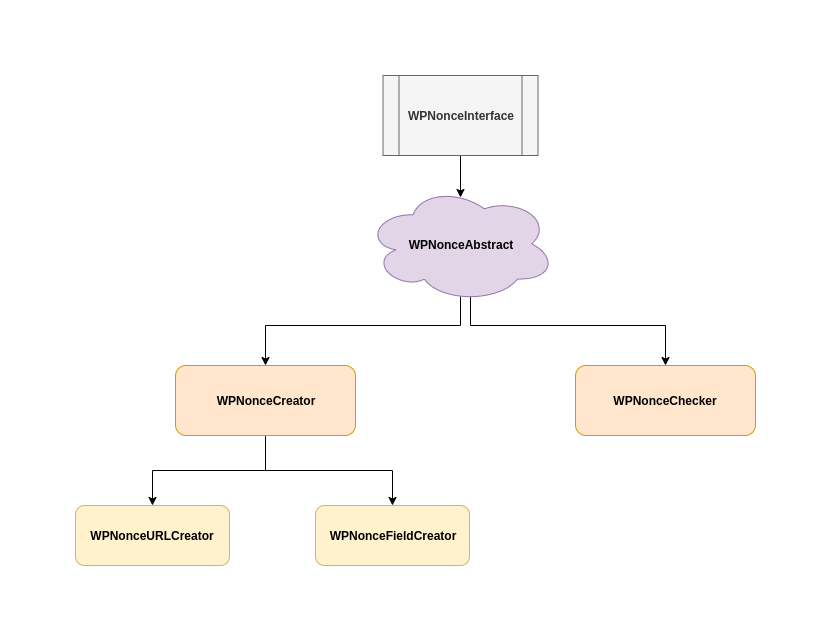
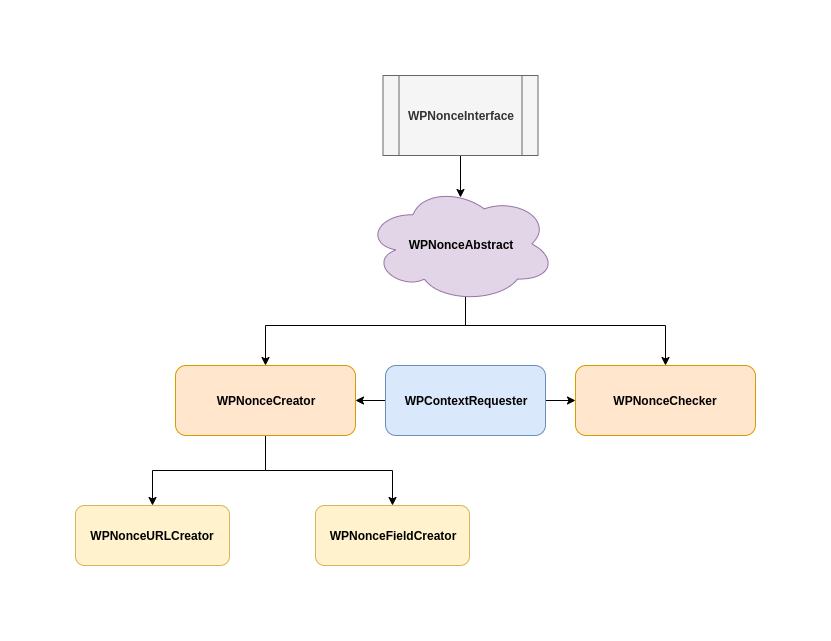
architecture diagram updated

Changed region(s): [[0.4513, 0.5616, 0.6619, 0.6864], [0.5415, 0.468, 0.5716, 0.4992]]

diff --git a/src/Main/WPContextRequester.php b/src/Main/WPContextRequester.php
@@ -1,0 +1,135 @@
+<?php
+
+declare(strict_types=1);
+
+namespace luisdeb\Woncer\Main;
+
+/**
+ * General-purpose Nonce verification class.
+ * It implements different verifier methods depending on Nonce context.
+ *
+ * @see https://codex.wordpress.org/Wordpress_Nonce_Implementation
+ */
+final class WPContextRequester
+{
+    /**
+     * The current WordPress `check admin referer function name`.
+     *
+     * @var string CHECK_ADMIN_REFERER_FUNCTION_NAME
+     */
+    const CHECK_ADMIN_REFERER_FUNCTION_NAME = 'check_admin_referer';
+
+    /**
+     * The current WordPress `check ajax referer function name`.
+     *
+     * @var string CHECK_AJAX_REFERER_FUNCTION_NAME
+     */
+    const CHECK_AJAX_REFERER_FUNCTION_NAME = 'check_ajax_referer';
+
+    /**
+     * The current WordPress `verify nonce function name`.
+     *
+     * @var string VERIFY_NONCE_FUNCTION_NAME
+     */
+    const VERIFY_NONCE_FUNCTION_NAME = 'wp_verify_nonce';
+
+    /**
+     * The HTTP request data based on method.
+     *
+     * @var int $time
+     */
+    private $httpRequest;
+
+    /**
+     * Tests if the nonce is valid or if the request was referred from an admin.
+     *
+     * @see https://codex.wordpress.org/Function_Reference/check_admin_referer
+     *
+     * @param string $action    | the context for the referal.
+     * @param string $queryArg  | Where to look for nonce in $_REQUEST global variable.
+     *
+     * @var string $nonceAction | takes the local action value in case $action is not set.
+     *
+     * @return bool $result | Whether the nonce is valid or not
+     */
+    public function checkAdminReferer(
+        string $action = null,
+        string $queryArg = null
+    ): bool {
+
+        $result = false;
+        $nonceAction = (!$action) ? $this->action() : $action;
+
+        if (function_exists(self::CHECK_ADMIN_REFERER_FUNCTION_NAME)) {
+            $result = check_admin_referer($nonceAction, $queryArg);
+        }
+
+        return $result;
+    }
+
+    /**
+     * Verifies the AJAX request to prevent any requests from third-party sites
+     *
+     * @see https://codex.wordpress.org/Function_Reference/check_ajax_referer
+     *
+     * @param string $action    | the context for the referal.
+     * @param string $queryArg  | Where to look for nonce in $_REQUEST global variable.
+     * @param bool $die         | Whether to die if the nonce is invalid.
+     *
+     * @var string $nonceAction | takes the local action value in case $action is not set.
+     *
+     * @return bool $result | `true` if check passes or `false` if check fails
+     */
+    public function checkAjaxReferer(
+        string $action = null,
+        string $queryArg = null,
+        bool $die = true
+    ): bool {
+
+        $result = false;
+        $nonceAction = (!$action) ? $this->action() : $action;
+
+        if (function_exists(self::CHECK_AJAX_REFERER_FUNCTION_NAME)) {
+            $result = check_ajax_referer($nonceAction, $queryArg, $die);
+        }
+
+        return $result;
+    }
+
+    /**
+     * Verifies the nonce passed in some other context
+     *
+     * @see https://codex.wordpress.org/Function_Reference/wp_verify_nonce
+     *
+     * @param string $nonce     | the nonce to verify.
+     * @param string $action    | the context for the nonce.
+     *
+     * @var string $nonceAction | takes the local action value in case $action is not set.
+     *
+     * @return int $result | value `0` if nonce is invalid.
+     *                     | value `1` if nonce was generated in the past 12 hours or less.
+     *                     | value `2` if nonce was generated between 12 and 24 hours ago.
+     *
+     * wp_verify_nonce returns a boolean `false`. In this function we return an int `0` as `false`,
+     * as multiple return types are not supported yet, and will not be until PHP 8.0 is released.
+     *
+     * @see https://wiki.php.net/rfc/union_types_v2
+     *
+     */
+    public function verifyNonce(
+        string $nonce,
+        string $action = null
+    ): int {
+
+        $result = 0;
+        $nonceAction = (!$action) ? $this->action() : $action;
+
+        /* http request validation here */
+
+        if (function_exists(self::VERIFY_NONCE_FUNCTION_NAME)) {
+            $result = wp_verify_nonce($nonce, $nonceAction);
+        }
+
+        return (!$result) ? 0 : $result;
+    }
+}

diff --git a/CHANGELOG.md b/CHANGELOG.md
@@ -19,7 +19,7 @@
 
 2. The solution was to implement a separate class for each different context: `WPNonceCreator` for a default context, `WPNonceURLCreator` to add the nonce as a URL parameter and `WPNonceFieldCreator` to append the nonce as a form field.
 
-3. New logic was created in `WPNonceAbstract` to verify the Nonce context based on HTTP request. This can be implemented both by Nonce "Creator" classes and by the Nonce "Checker" class.
+3. New logic was created in `ContextRequester` class to verify the Nonce context based on HTTP request. This can be implemented both by Nonce "Creator" classes and by the Nonce "Checker" class.
 
 4. A new interface definition was placed on top of `WPNonceAbstract` to comply with the structural requirements for a basic Nonce implementation.
 
